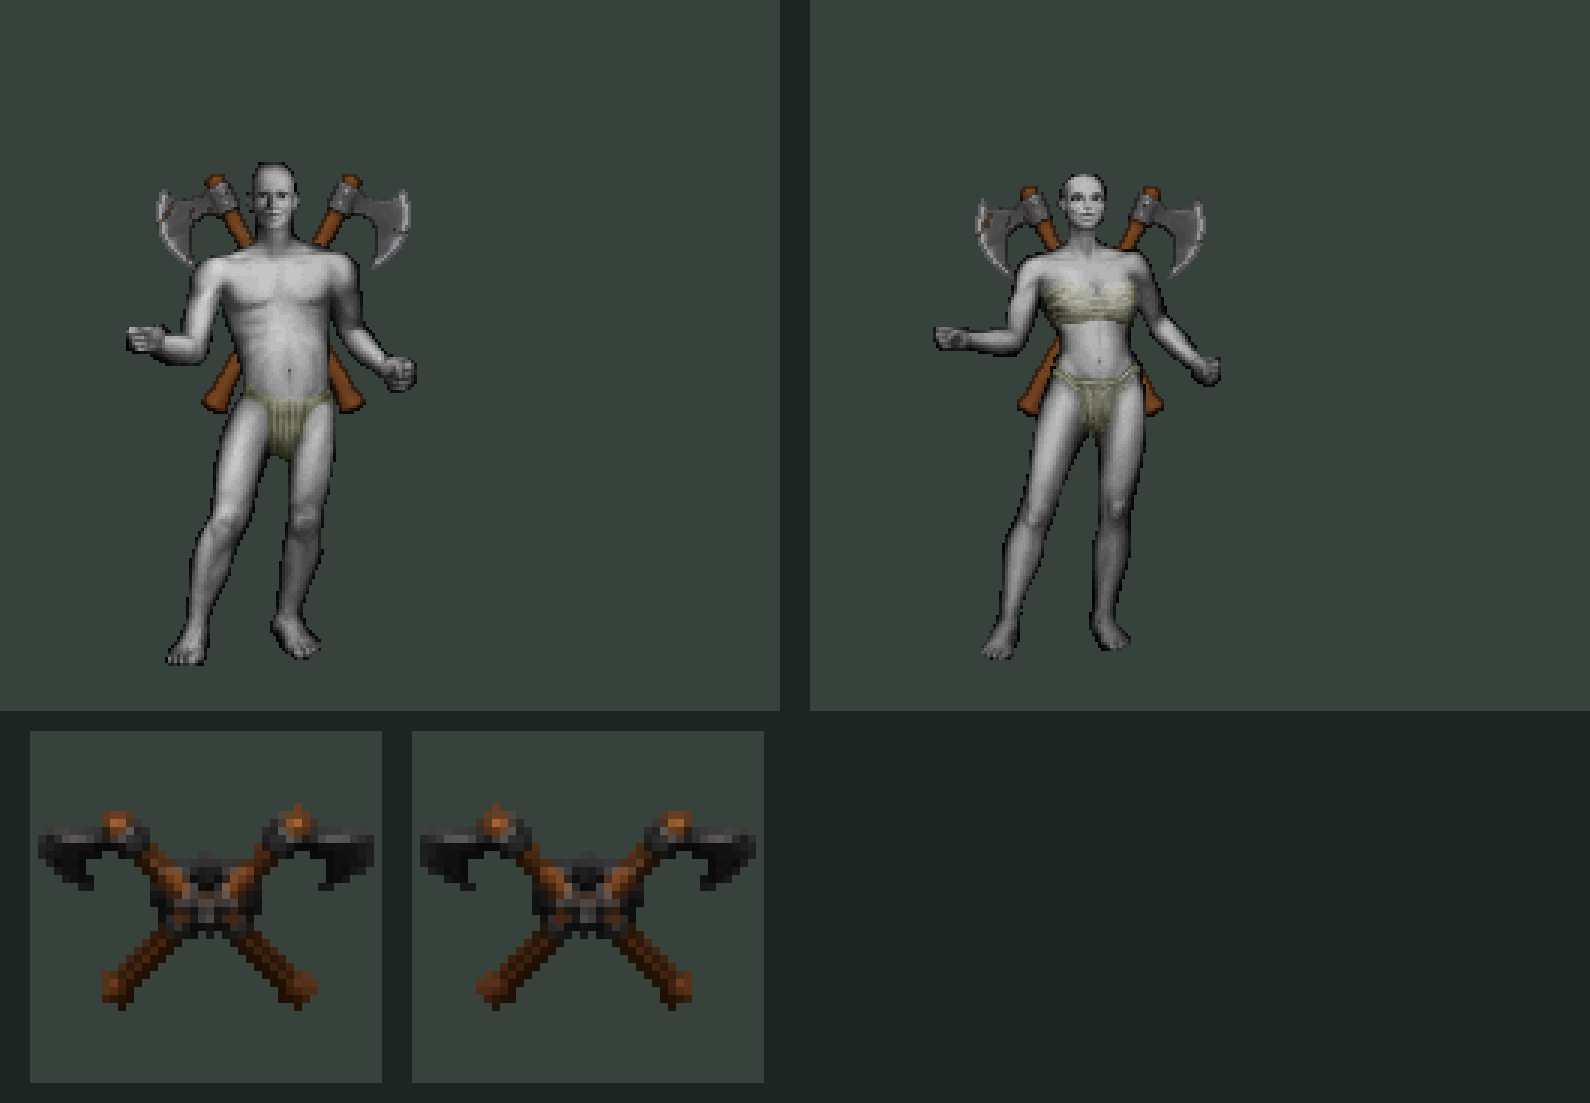
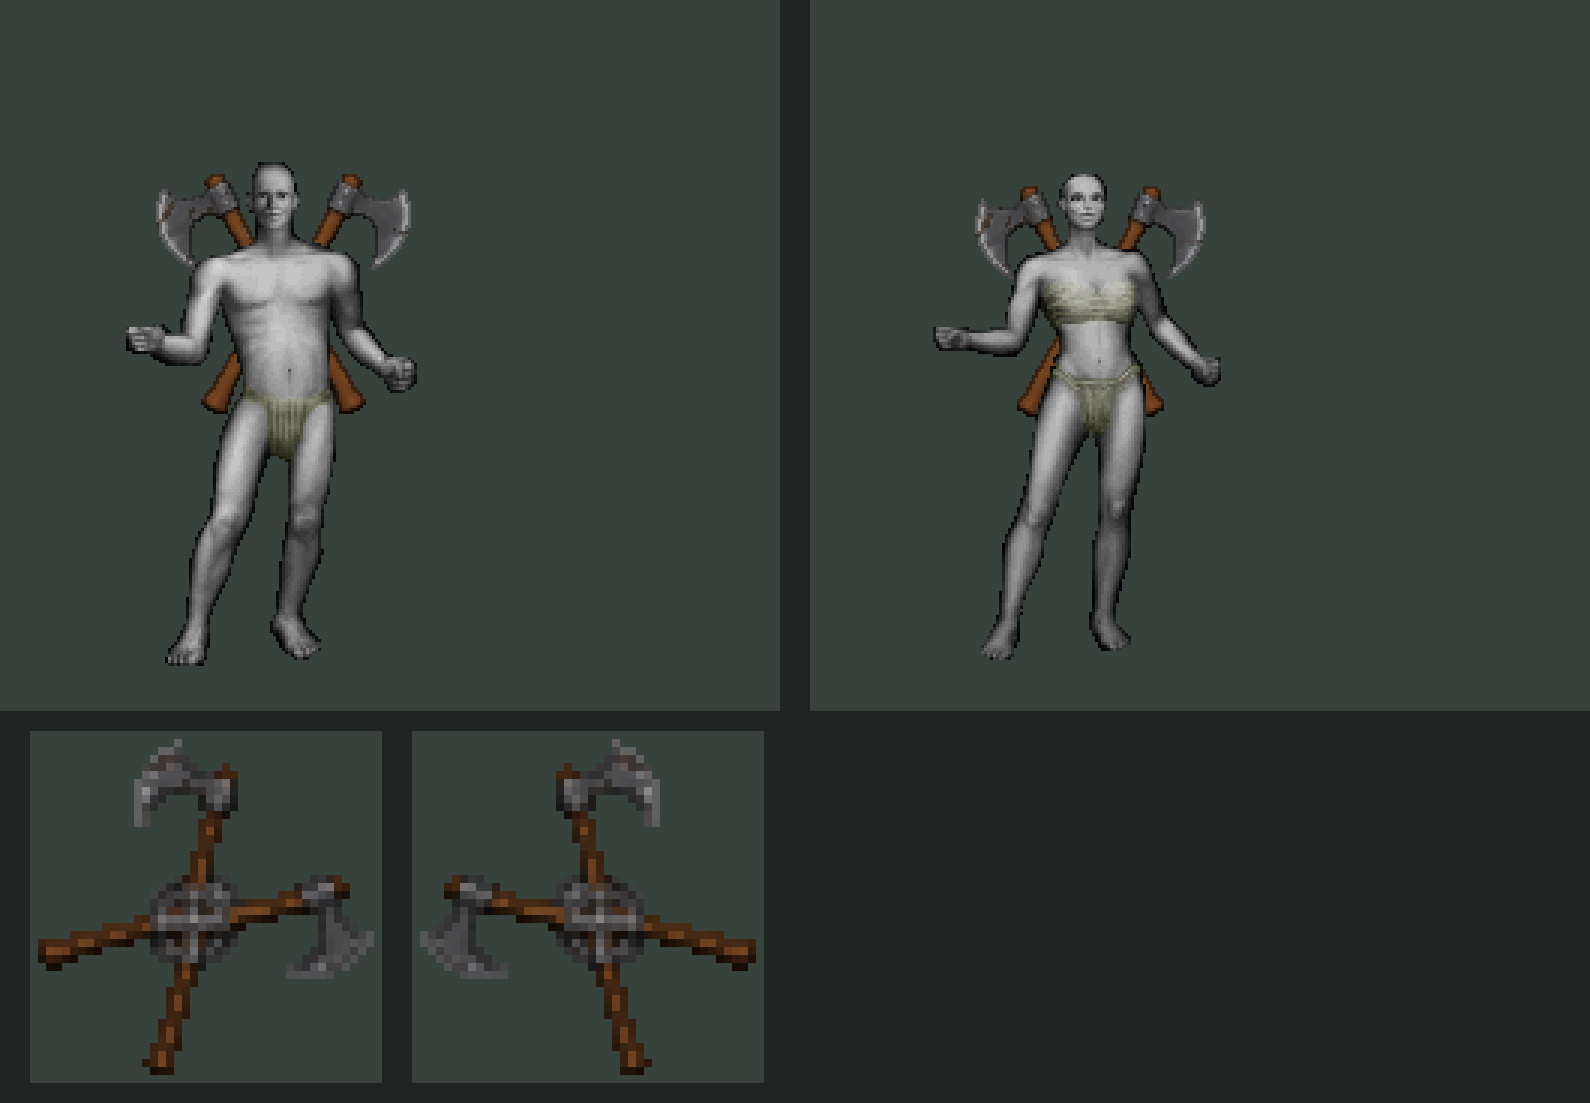
UOModel3D: back axes art seen head-on, turned 45 deg clockwise
Claude-Session: https://claude.ai/code/session_01HZm1V9nzpo81xbQ2hP5UT2

Changed region(s): [[0.0308, 0.6782, 0.4931, 0.9864], [0.2157, 0.8323, 0.2774, 0.8631]]

diff --git a/pipeline/uo_render_back_gump.py b/pipeline/uo_render_back_gump.py
@@ -6,7 +6,7 @@ Gump (gumpart.mul, 260 x 237): front view, orthographic, 90.5 px/m, the same ali
 what sticks out beyond the drawn body: the blades above the shoulders, the haft ends beside the hips. The drawn body gump (reference png, default docs/paperdoll) is cut out of the picture, so the
 gump is right whether the client draws it under or over the body (the paperdoll arms of the drawn body differ from the 3D rest pose, so the 3D body is no use as a holdout).
 Female: the same prop on body gump 13 (head top y 58, feet y 219, narrower shoulders): scaled about the body axis and the feet by FEM_KX (width) and the height ratio, the hub kept on the same body height.
-Art (art.mul): the item turned towards the camera like a lying item (UO draws items from above at 45 degrees), fitted into ART_W x ART_H px; the mirrored second icon is written too.
+Art (art.mul): seen head-on and turned PD_ART_ROLL (45) degrees clockwise in the picture plane (PD_ART_TILT=55, PD_ART_ROLL=0, PD_ART_TURN=-35 = the old view of a lying item), fitted into ART_W x ART_H px; the mirrored second icon is written too.
 Writes gump_male.png, gump_female.png, art.png, art_mirror.png and the mul entries *.bin (uo_gump_art.py) in PD_OUT. Light / materials as render_uo_layer.py (UO_Look, 1 sample per pixel, 3 x 3 supersampling box-averaged).
 """
 import os, sys
@@ -85,9 +85,11 @@ for gender in ("male", "female"):
     print("PD %s: %d px, x %d..%d, y %d..%d (body gump rows %d..%d), extra=%d (w<<16|h)" % (gender, mm.sum(), xs.min(), xs.max(), ys.min(), ys.max(), HEAD[gender], FEET[gender], extra))
 
 # art: the item as one object, tilted towards the camera, fitted into ART_W x ART_H
-tilt = float(os.environ.get("PD_ART_TILT", "55"))
-turn = float(os.environ.get("PD_ART_TURN", "-35"))
-rig.rotation_mode = "ZYX"; rig.rotation_euler = (np.radians(tilt), 0, np.radians(turn))
+tilt = float(os.environ.get("PD_ART_TILT", "0"))             # 0 = seen head-on (the default now); 55 = lying on the ground seen from above (UO draws items at 45 degrees)
+turn = float(os.environ.get("PD_ART_TURN", "0"))
+roll = float(os.environ.get("PD_ART_ROLL", "45"))            # deg, in the picture plane, + = clockwise (to the right) as the viewer sees it
+ART_COLOR_K = float(os.environ.get("PD_ART_COLOR_K", str(COLOR_K if tilt < 20 else 1.0)))   # head-on is lit like the gump: the same wood level
+rig.rotation_mode = "ZYX"; rig.rotation_euler = (np.radians(tilt), np.radians(roll), np.radians(turn))
 rig.location = (0, 0, 0)
 bpy.context.view_layer.update()
 S2 = 4
@@ -97,7 +99,10 @@ bw, bh = (xs.max() - xs.min() + 1) / 200.0, (ys.max() - ys.min() + 1) / 200.0
 k = min((ART_W - 2) / bw, (ART_H - 2) / bh)
 ccx = ((xs.max() + xs.min()) / 2 - 512) / 200.0; ccz = 0.6 - ((ys.max() + ys.min()) / 2 - 512) / 200.0
 art = render(tmp, ART_W * S2, ART_H * S2, k * S2, ccx, ccz, items, False)
-res_art = darken_edges(cap(box_down(art, S2)), OUTLINE_G)
+res_art = cap(box_down(art, S2))
+top = res_art[..., :3].max(-1, keepdims=True); grey = (top - res_art[..., :3].min(-1, keepdims=True)) <= 10.0 / 255.0
+res_art[..., :3] = np.where(grey, res_art[..., :3], res_art[..., :3] * ART_COLOR_K)
+res_art = darken_edges(res_art, OUTLINE_G)
 res_art[res_art[..., 3] == 0, :3] = 0
 np.save(os.path.join(OUT, "art_raw.npy"), res_art)
 a8 = to_rgba8(res_art)

diff --git a/.claude/skills/uo-items-render/SKILL.md b/.claude/skills/uo-items-render/SKILL.md
@@ -16,4 +16,4 @@ description: Item pipeline from free 3D models (uo_make_item.py, JSON recipes, a
 - Base look of a robe / skirt (decided 2026-10-20, README section 4): `uo_make_item.py` `scene_of()` gives recipes of kind `robe` / `skirt` `uo_shade_sleeve` 0.4, `uo_shade_width` 4, `uo_contrast` 1.5 (the recipe's own `"scene"` wins). Silk robe, walk, sleeve zone: brightness spread 31 -> 46 (469: 54), dark share around the hands 38% -> 55% (469: 56%). Open: the mean brightness of the sleeve is 97 (469: 113) and the lights 155-163 (469: 180): try `uo_contrast_pivot` 0.55 and a lighter cloth; the gold trim gets more saturated.
 - Rigid prop on the back (crossed axes, a shield or sword on the back; no mannequin in the file): recipe `"rigid": {"scale": 0.495, "offset": [0, 0.183, 0.148], "bone": "chest", "part": "quiver"}` (`uo_make_item.py`): scaled about its centre, centre put at the bone head + offset (m; body rest pose: front is -Y, the torso back is at y ~ +0.12 at z 1.2-1.4), NOT fitted to the skin (`uo_fit_item` bends the mesh and pushes 20k vertices), weight 1 on one bone, `uo_behind_torso` + `uo_no_body_gap`. Crossed axes from Meshy (1.9 x 0.23 x 1.8 file units): scale 0.495 = 0.94 m wide, offset z 0.148 puts the hub (the disc at the crossing) at z 1.36 m = between the shoulder blades, y 0.183 (0.178 at scale 0.45) puts the nearest point ~5 mm off the back (measure: min distance item-body in rest pose; the flat hub touches the shoulder blades, the spine groove is ~5 cm behind); item_qa: inside 0.0-0.1%, worst 16_spell_directed (107 mm deep).
 - `uo_make_item.py --vd` and `--preview` together fail ("no frames in .../render/all"): run them separately. Occlusion check of a back prop: `item_sheet.sheet(render, "all", actions, [0,1,2,3,4], [0.4])` after a `--preview --actions ...` run (front hides hub and hafts, back shows all, blades stay visible beside the shoulders).
-- Paperdoll gumps + icon of a prop on the back (`uo_render_back_gump.py`, run with `PD_OUT=DIR python run_script_in_blend.py ITEM.blend uo_render_back_gump.py`): front view as uo_render_paperdoll.py, the drawn body gump (docs/paperdoll 12 / 13) is cut out of the prop (arms of the drawn bodies differ from the 3D rest pose, so no 3D holdout); female = width x0.90 and the height ratio of gump 13 (head 58, feet 219, axis 93.5); coloured parts x0.6 (front view is lit brighter than the animation); art 44x44 + mirror; writes `*.png` and mul entries `*.bin`. Output of the crossed axes: `back_axes_gump/`.
+- Paperdoll gumps + icon of a prop on the back (`uo_render_back_gump.py`, run with `PD_OUT=DIR python run_script_in_blend.py ITEM.blend uo_render_back_gump.py`): front view as uo_render_paperdoll.py, the drawn body gump (docs/paperdoll 12 / 13) is cut out of the prop (arms of the drawn bodies differ from the 3D rest pose, so no 3D holdout); female = width x0.90 and the height ratio of gump 13 (head 58, feet 219, axis 93.5); coloured parts x0.6 (front view is lit brighter than the animation); art 44x44 head-on turned 45 deg clockwise (PD_ART_ROLL) + mirror; writes `*.png` and mul entries `*.bin`. Output of the crossed axes: `back_axes_gump/`.
